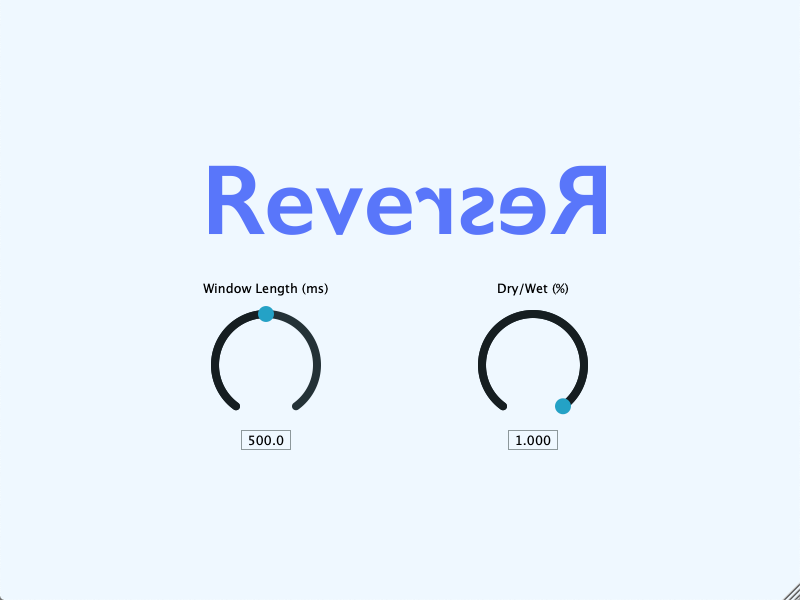
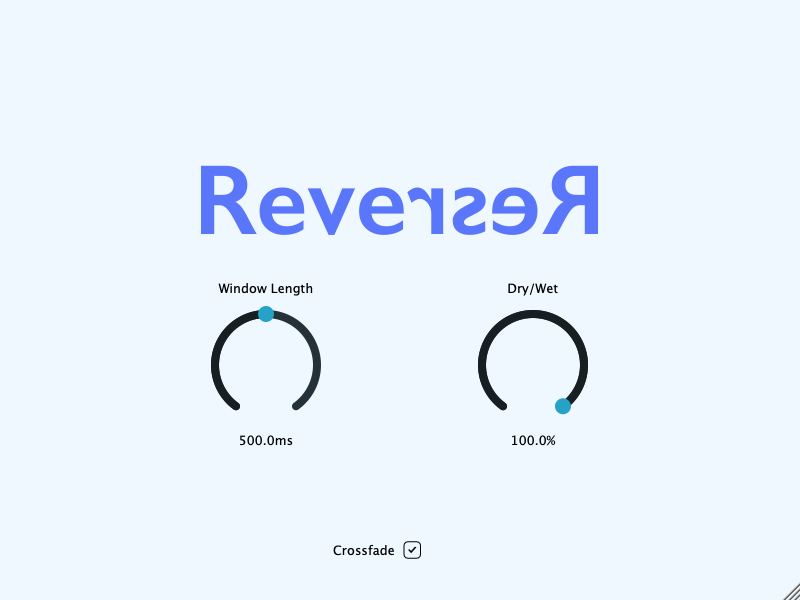
updates to the GUI

diff --git a/Source/PluginEditor.cpp b/Source/PluginEditor.cpp
@@ -14,23 +14,26 @@ ReverserAudioProcessorEditor::ReverserAudioProcessorEditor (ReverserAudioProcess
     : AudioProcessorEditor (&p), audioProcessor (p)
 {
     getLookAndFeel().setColour(juce::Slider::textBoxTextColourId, juce::Colours::black);
+    getLookAndFeel().setColour(juce::Slider::textBoxOutlineColourId, juce::Colours::aliceblue);
     getLookAndFeel().setColour(juce::Label::textColourId, juce::Colours::black);
     getLookAndFeel().setColour(juce::ToggleButton::ColourIds::tickColourId, juce::Colours::black);
     getLookAndFeel().setColour(juce::ToggleButton::ColourIds::tickDisabledColourId, juce::Colours::black);
 
     timeKnob.setSliderStyle(juce::Slider::SliderStyle::RotaryVerticalDrag);
-    timeKnob.setTextBoxStyle(juce::Slider::TextEntryBoxPosition::TextBoxBelow, false, 50, 20);
+    timeKnob.setTextBoxStyle(juce::Slider::TextEntryBoxPosition::TextBoxBelow, false, 100, 20);
+    timeKnob.setTextValueSuffix("ms");
     timeKnob.onValueChange = [this] {audioProcessor.setUpdate();};
     timeAttachment = std::make_unique<juce::AudioProcessorValueTreeState::SliderAttachment>(audioProcessor.getParameters(),"TIME",timeKnob);
-    timeLabel.setText("Window Length (ms)", juce::dontSendNotification);
+    timeLabel.setText("Window Length", juce::dontSendNotification);
     timeLabel.setJustificationType(juce::Justification::horizontallyCentred);
     timeLabel.attachToComponent(&timeKnob, false);
     addAndMakeVisible(timeKnob);
 
     dryWetKnob.setSliderStyle(juce::Slider::RotaryVerticalDrag);
-    dryWetKnob.setTextBoxStyle(juce::Slider::TextBoxBelow, false, 50, 20);
+    dryWetKnob.setTextBoxStyle(juce::Slider::TextBoxBelow, false, 100, 20);
+    dryWetKnob.setTextValueSuffix("%");
     dryWetAttachment = std::make_unique<juce::AudioProcessorValueTreeState::SliderAttachment>(audioProcessor.getParameters(),"DRYWET",dryWetKnob);
-    dryWetLabel.setText("Dry/Wet (%)", juce::dontSendNotification);
+    dryWetLabel.setText("Dry/Wet", juce::dontSendNotification);
     dryWetLabel.setJustificationType(juce::Justification::horizontallyCentred);
     dryWetLabel.attachToComponent(&dryWetKnob, false);
     addAndMakeVisible(dryWetKnob);

diff --git a/Source/PluginProcessor.cpp b/Source/PluginProcessor.cpp
@@ -226,7 +226,7 @@ juce::AudioProcessorValueTreeState::ParameterLayout ReverserAudioProcessor::crea
 {
     std::vector<std::unique_ptr<juce::RangedAudioParameter>> params;
     params.push_back(std::make_unique<juce::AudioParameterFloat>("TIME","Time", juce::NormalisableRange<float>(0.f,1000.f,0.1f), 500.f));
-    params.push_back(std::make_unique<juce::AudioParameterFloat>("DRYWET","DryWet", juce::NormalisableRange<float>(0.f,1.f,0.001f), 1.f));
+    params.push_back(std::make_unique<juce::AudioParameterFloat>("DRYWET","DryWet", juce::NormalisableRange<float>(0.f,100.f,0.1f), 100.f));
     params.push_back(std::make_unique<juce::AudioParameterBool>("CROSSFADE","Crossfade",true));
     return { params.begin(), params.end() };
 }
@@ -275,7 +275,7 @@ void ReverserAudioProcessor::updateLength()
 
 void ReverserAudioProcessor::runDSP()
 {
-    mixer.setWetMixProportion(*parameters.getRawParameterValue("DRYWET"));
+    mixer.setWetMixProportion(*parameters.getRawParameterValue("DRYWET")/100.);
 
     if(crossfade)
     {
